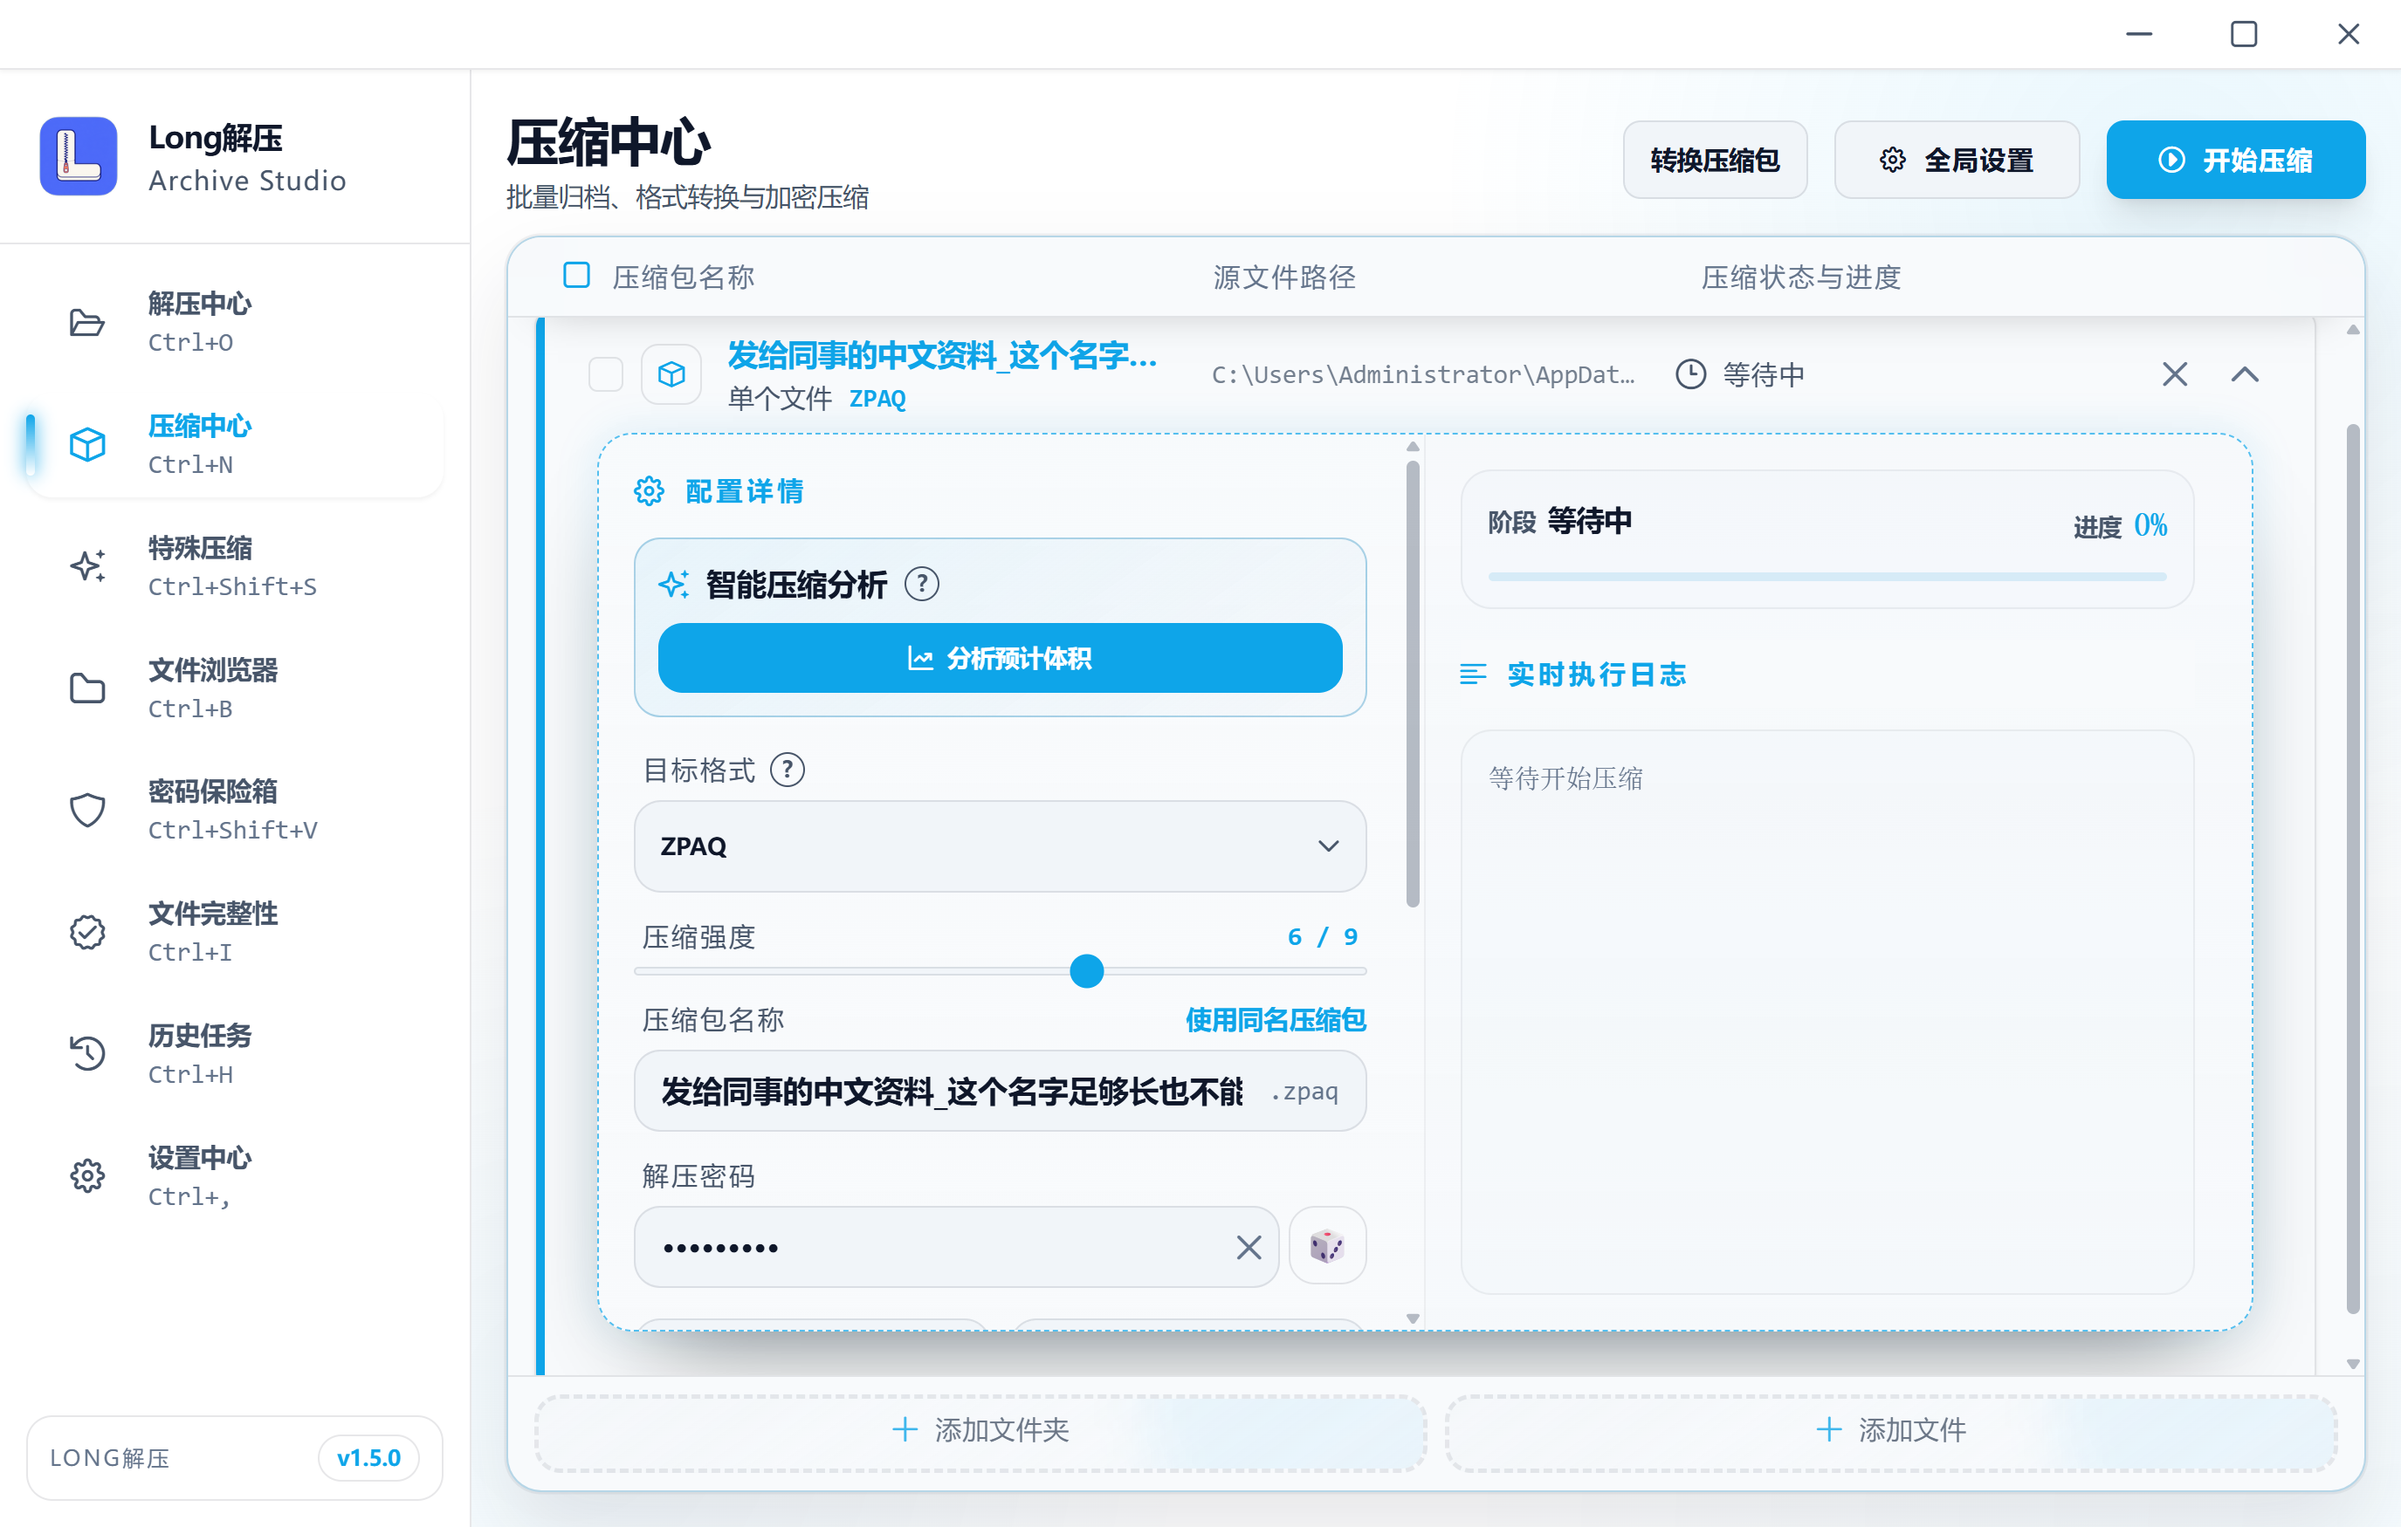
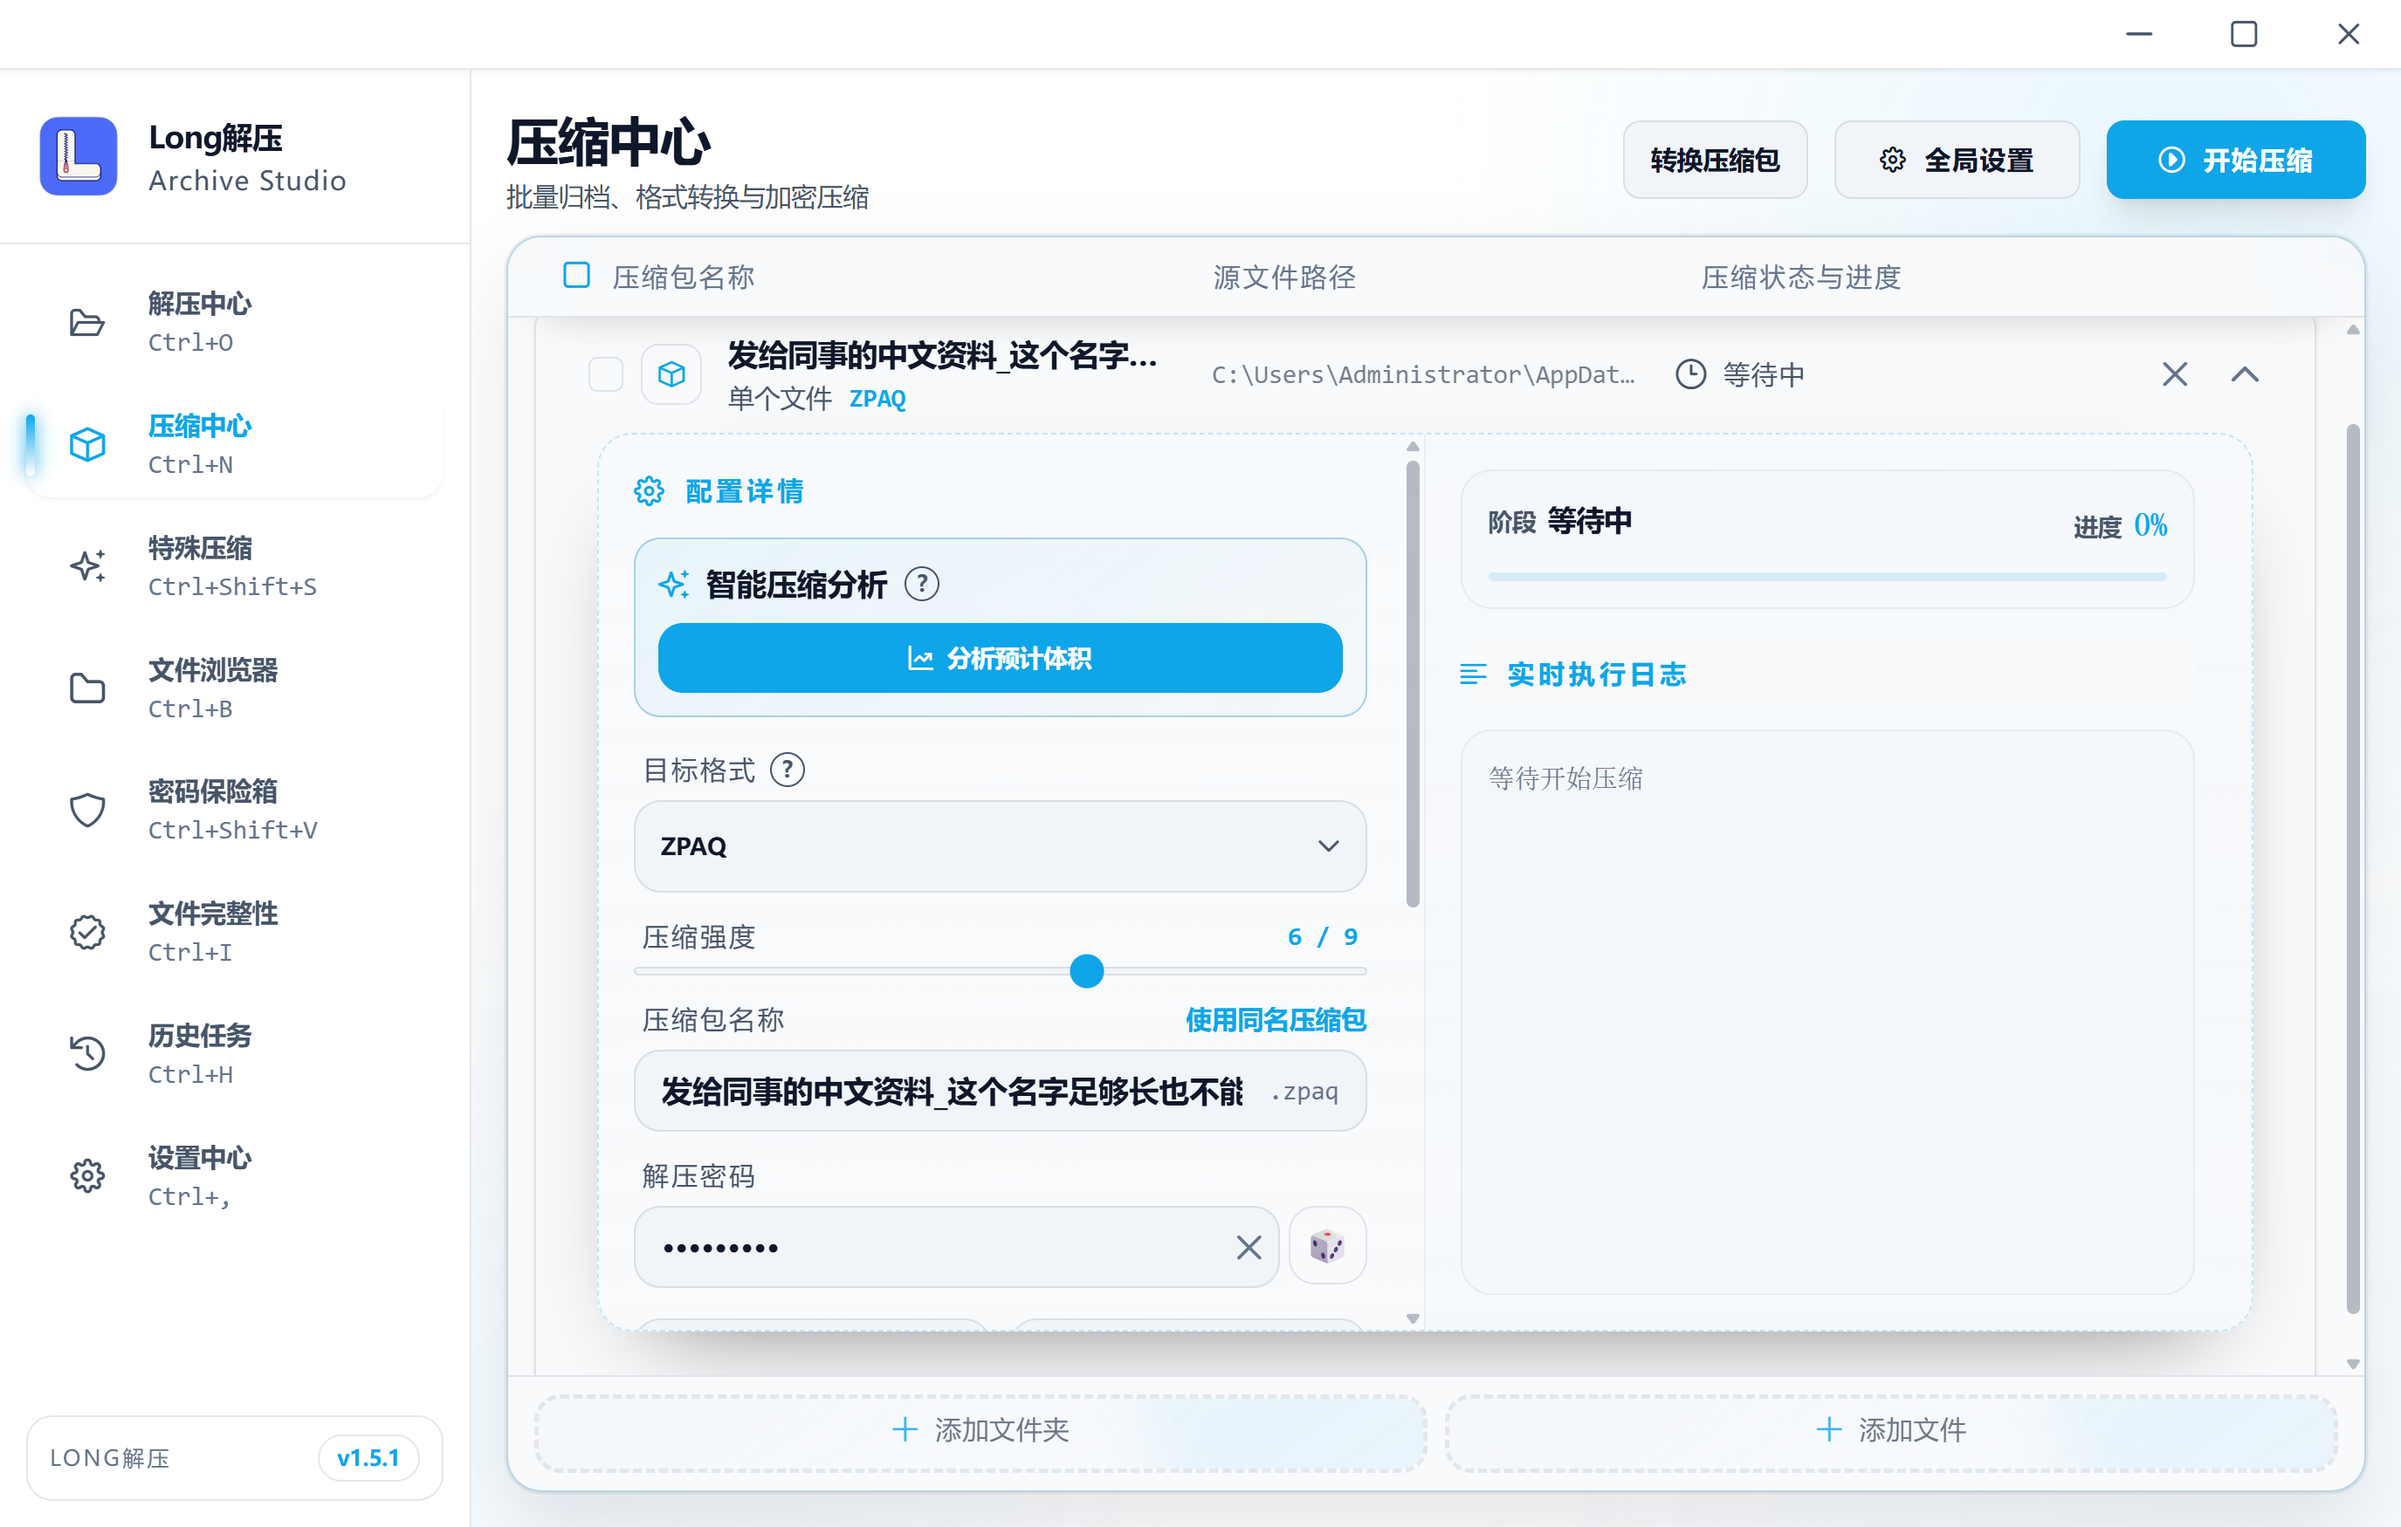
fix(zpaq): suspend archive child work when task is paused

Changed region(s): [[0.2164, 0.216, 0.2473, 0.8949], [0.3091, 0.216, 0.4636, 0.2469]]

diff --git a/long-compress-assistant/src-tauri/src/utils/process.rs b/long-compress-assistant/src-tauri/src/utils/process.rs
@@ -36,7 +36,19 @@ pub async fn cancellable_output_with_stdin(
     timeout: std::time::Duration,
     input: Option<Vec<u8>>,
 ) -> std::io::Result<std::process::Output> {
-    output_with_stdin_mode(command, cancelled, timeout, input, 0).await
+    output_with_stdin_mode(command, cancelled, timeout, input, 0, None).await
+}
+
+/// Archive children must stop actual work when their registered task is paused,
+/// not merely wait before publication. Other media/RAR callers retain their
+/// existing runner behavior unless they explicitly use this archive channel.
+pub async fn cancellable_archive_output_with_stdin(
+    command: &mut tokio::process::Command,
+    cancelled: &std::sync::Arc<std::sync::atomic::AtomicBool>,
+    timeout: std::time::Duration,
+    input: Option<Vec<u8>>,
+) -> std::io::Result<std::process::Output> {
+    output_with_stdin_mode(command, cancelled, timeout, input, 0, Some(cancelled.clone())).await
 }
 
 /// RAR4 rc opens each surviving volume with a separate password prompt.
@@ -50,7 +62,7 @@ pub async fn cancellable_output_with_rar_prompts(
     input: Option<Vec<u8>>,
     max_prompts: usize,
 ) -> std::io::Result<std::process::Output> {
-    output_with_stdin_mode(command, cancelled, timeout, input, max_prompts.clamp(1, 512)).await
+    output_with_stdin_mode(command, cancelled, timeout, input, max_prompts.clamp(1, 512), None).await
 }
 
 async fn output_with_stdin_mode(
@@ -59,6 +71,7 @@ async fn output_with_stdin_mode(
     timeout: std::time::Duration,
     mut input: Option<Vec<u8>>,
     max_prompts: usize,
+    pause_flag: Option<std::sync::Arc<std::sync::atomic::AtomicBool>>,
 ) -> std::io::Result<std::process::Output> {
     use std::{io, process::Stdio, sync::atomic::Ordering};
     use tokio::io::{AsyncReadExt, AsyncWriteExt};
@@ -128,6 +141,16 @@ async fn output_with_stdin_mode(
             tokio::time::sleep(std::time::Duration::from_millis(10)).await;
         }
     };
+    let process_id = child.id().expect("spawned child process");
+    let pause_monitor = async {
+        let Some(flag) = pause_flag else { return std::future::pending::<io::Result<()>>().await; };
+        let mut suspended = false;
+        loop {
+            crate::services::task_control::sync_child_pause(&flag, process_id, &mut suspended)
+                .map_err(io::Error::other)?;
+            tokio::time::sleep(std::time::Duration::from_millis(10)).await;
+        }
+    };
     let status = tokio::select! {
         status = child.wait() => status,
         _ = cancellation => {
@@ -137,6 +160,10 @@ async fn output_with_stdin_mode(
         _ = tokio::time::sleep(timeout) => {
             let result = child.kill().await;
             result.and(Err(io::Error::new(io::ErrorKind::TimedOut, "video probe timed out")))
+        },
+        failure = pause_monitor => {
+            let _ = child.kill().await;
+            Err(failure.unwrap_err())
         },
     };
     let stdout = stdout_reader.await.map_err(io::Error::other)??;
@@ -158,6 +185,40 @@ mod tests {
         },
         time::Duration,
     };
+
+    #[tokio::test]
+    async fn archive_child_pause_stops_work_and_can_resume_then_cancel() {
+        use crate::services::task_control;
+        let task_id = format!("archive-child-pause-{}", uuid::Uuid::new_v4());
+        struct Cleanup(String);
+        impl Drop for Cleanup { fn drop(&mut self) { task_control::cleanup(&self.0); } }
+        let flag = task_control::register(&task_id).unwrap();
+        let _cleanup = Cleanup(task_id.clone());
+        let directory = tempfile::tempdir().unwrap();
+        let marker = directory.path().join("heartbeat.txt");
+        let script = format!("for ($taskTick=0; $taskTick -lt 200; $taskTick++) {{ [IO.File]::AppendAllText('{}', '.'); Start-Sleep -Milliseconds 30 }}", marker.to_string_lossy().replace('\'', "''"));
+        let worker_flag = flag.clone();
+        let worker = tokio::spawn(async move {
+            let mut child = async_command("powershell.exe");
+            child.args(["-NoProfile", "-NonInteractive", "-Command", &script]);
+            cancellable_archive_output_with_stdin(&mut child, &worker_flag, Duration::from_secs(15), None).await
+        });
+        let size = || std::fs::metadata(&marker).map(|m| m.len()).unwrap_or(0);
+        tokio::time::timeout(Duration::from_secs(8), async {
+            while size() < 4 { tokio::time::sleep(Duration::from_millis(30)).await; }
+        }).await.unwrap();
+        assert!(task_control::pause(&task_id));
+        tokio::time::sleep(Duration::from_millis(150)).await;
+        let paused_size = size();
+        tokio::time::sleep(Duration::from_millis(300)).await;
+        assert_eq!(size(), paused_size, "paused archive child must stop actual work");
+        assert!(task_control::resume(&task_id));
+        tokio::time::timeout(Duration::from_secs(3), async {
+            while size() == paused_size { tokio::time::sleep(Duration::from_millis(30)).await; }
+        }).await.unwrap();
+        assert!(task_control::cancel(&task_id));
+        assert_eq!(worker.await.unwrap().unwrap_err().kind(), std::io::ErrorKind::Interrupted);
+    }
 
     #[tokio::test]
     async fn cancellation_releases_child_file_handle_before_returning() {

diff --git a/long-compress-assistant/src-tauri/src/services/zpaq_engine.rs b/long-compress-assistant/src-tauri/src/services/zpaq_engine.rs
@@ -51,7 +51,7 @@ async fn run(path: &Path, password: Option<&str>, output: Option<&Path>, test: b
     if test { command.arg("-test"); }
     else if let Some(output) = output { command.arg("-to").arg(output); }
     else { command.arg("-long-json"); }
-    let result = crate::utils::process::cancellable_output_with_stdin(
+    let result = crate::utils::process::cancellable_archive_output_with_stdin(
         &mut command, &cancelled, Duration::from_secs(24 * 60 * 60), Some(input(if encrypted { password } else { None }, selected)?))
         .await.map_err(|e| anyhow::anyhow!("ZPAQ 读取取消或引擎运行失败：{e}"))?;
     if !result.status.success() {
@@ -113,7 +113,7 @@ pub async fn create(sources: &[String], output: &Path, options: &crate::models::
     let method = match options.level { 0 => "04", 1..=2 => "14", 3..=4 => "24", 5..=6 => "34", 7..=8 => "44", _ => "54" };
     let mut command = crate::utils::process::async_command(tool);
     command.arg("a").arg(output).args(["-long-stdin", "-long-create", "-method", method, "-threads", "2", "-noattributes"]);
-    let result = crate::utils::process::cancellable_output_with_stdin(&mut command, &cancelled, Duration::from_secs(24*60*60), Some(data)).await
+    let result = crate::utils::process::cancellable_archive_output_with_stdin(&mut command, &cancelled, Duration::from_secs(24*60*60), Some(data)).await
         .map_err(|e| anyhow::anyhow!("ZPAQ 创建取消或引擎运行失败：{e}"))?;
     if !result.status.success() {
         let detail = format!("{}\n{}", String::from_utf8_lossy(&result.stderr), String::from_utf8_lossy(&result.stdout));

diff --git a/long-compress-assistant/docs/RELEASE_NOTES_1.5.1.md b/long-compress-assistant/docs/RELEASE_NOTES_1.5.1.md
@@ -8,6 +8,7 @@
 - ZPAQ 参数可保存为配置组并重新应用。历史任务保留格式、压缩强度等设置，重新执行时先生成待确认草稿，密码重新填写，不改写原记录。
 - 转换界面新增 ZPAQ 输出，支持已有密码包转换和 ZPAQ 重新加密；保留原包，仍先暂存、校验再发布。
 - 修复随附 ZPAQ 引擎的 Windows 读写错误传播。读取、短写、定位、关闭或刷盘失败都会结束任务并保留具体原因，检查报告不再把明确 I/O 故障归为密码或损坏待定。失败和取消不发布半成品。
+- ZPAQ 任务暂停会实际暂停引擎进程，恢复后继续；暂停中仍可取消，不再只挡住后续结果提交。
 - 修复“保存为配置组”弹窗在小窗口下超高的问题，使用内部滚动；配置预览改用主题配色。长归档名与 `.zpaq` 后缀保持分开显示，分卷等未实现选项不会误启用。
 
 ## 使用边界

diff --git a/long-compress-assistant/tests/fixtures/archives/zpaq-create-151/README.md b/long-compress-assistant/tests/fixtures/archives/zpaq-create-151/README.md
@@ -4,8 +4,8 @@
 
 | 产物 | SHA256 |
 | --- | --- |
[4 lines of base64/hex data omitted]
 
 密码为公开测试值 `中文 密码!-钥匙`，不是用户数据。归档内为 `项目 空格/`，包含 `说明.txt`、`空文件.txt`、`子目录/数据.bin` 和 `子目录/空目录/`。
 
